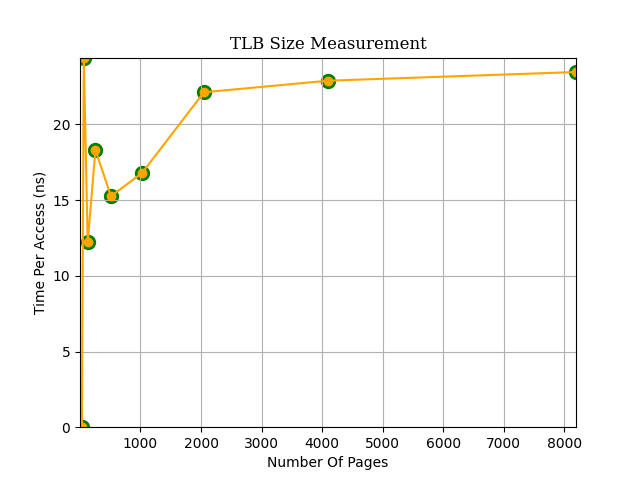
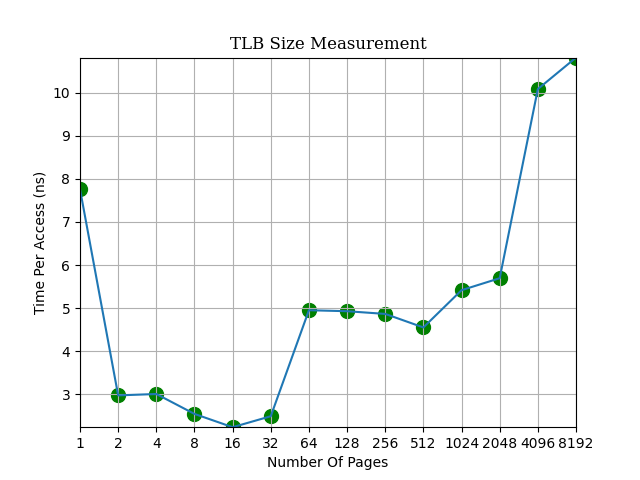
TLB graph trials: 10,000

diff --git a/OS_HW_TLB/tlb.c b/OS_HW_TLB/tlb.c
@@ -53,7 +53,7 @@ int main(int argc, char* argv[]) {
 	int *a = (int*)calloc(PAGESIZE * NUMPAGES, sizeof(int));
 
 	struct timespec begin, end;
-	if( (clock_gettime(CLOCK_PROCESS_CPUTIME_ID,&begin)) == -1) {
+	if( (clock_gettime(CLOCK_MONOTONIC,&begin)) == -1) {
 		printf("clock_gettime error - begin\n");
 		exit(EXIT_FAILURE);
 	}
@@ -64,15 +64,15 @@ int main(int argc, char* argv[]) {
 		}
 	}
 
-	if( (clock_gettime(CLOCK_PROCESS_CPUTIME_ID, &end)) == -1 ) {
+	if( (clock_gettime(CLOCK_MONOTONIC, &end)) == -1 ) {
 		printf("clock_gettime error - end\n");
 		exit(EXIT_FAILURE);
 	}
 	free(a);
-	
 
-	float diff_nanos = BILLION*(end.tv_sec - begin.tv_sec) + (end.tv_nsec - begin.tv_nsec);
-	diff_nanos /= (long)trials * (long)NUMPAGES ;
+
+	float diff_nanos = (BILLION*(end.tv_sec - begin.tv_sec) + (end.tv_nsec - begin.tv_nsec) ) / (trials * NUMPAGES);
+//	diff_nanos /= (long)trials * (long)NUMPAGES ;
 
 //	printf("%ld ns elapsed\n",time);
 //	printf("%lf μs elapsed\n ",(double)time/1000); //micro

diff --git a/OS_HW_TLB/make_graph_pyplot.py b/OS_HW_TLB/make_graph_pyplot.py
@@ -12,7 +12,7 @@ cnt=0
 with open('./time.data') as file:
     for line in file.readlines():
         if cnt != 0:
-            x.append(int(line.split()[0]))
+            x.append(str(line.split()[0]))
             y.append(float(line.split()[1]))
         cnt = cnt + 1
 
@@ -20,8 +20,8 @@ with open('./time.data') as file:
 plt.xlabel('Number Of Pages')
 plt.ylabel('Time Per Access (ns)')
 
-
-plt.plot(x.astype('str'), y)
+plt.plot(x,y)
+#plt.plot(x.astype('str'), y)
 # NUMPAGES =[1,2,4,8,16,32,64,128,256,512,1024,2048,4096,8192]
 
 plt.margins(0)
